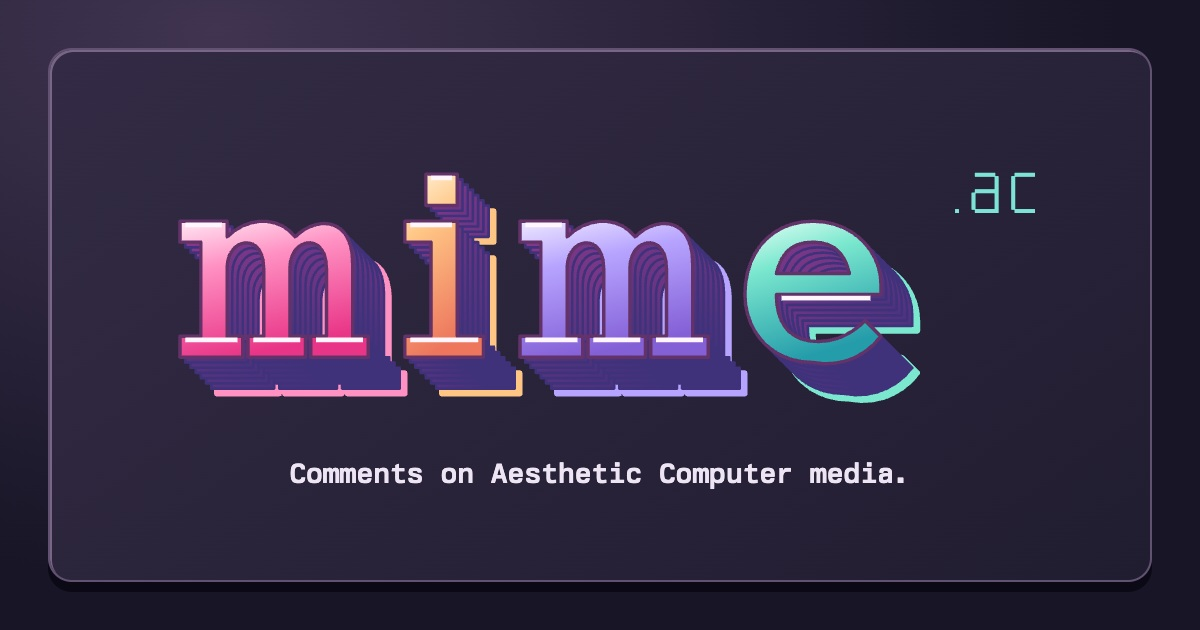
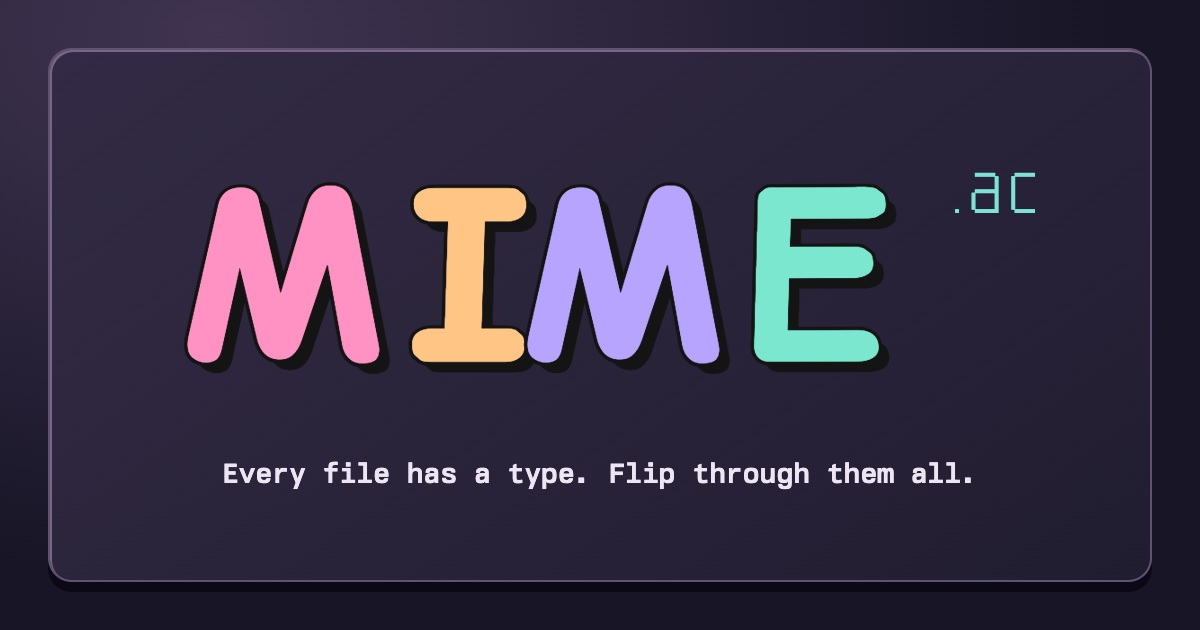
mime.ac: the share card says what the site is now
The 1200×630 card baked in "Comments on Aesthetic Computer media.", the
discussion-board tagline, and it is the hero on /mime-types/ and the
og:image everywhere. The generator now writes "Every file has a type. Flip
through them all." and both pages bump the image cache-buster so scrapers
refetch it. The favicons the script also rebuilds are left as committed.

Changed region(s): [[0.1233, 0.2714, 0.7708, 0.6635], [0.185, 0.7238, 0.8017, 0.7841]]

diff --git a/system/public/mime/mime-types/index.html b/system/public/mime/mime-types/index.html
@@ -16,14 +16,14 @@
 <meta property="og:title" content="What is a MIME type? Every file has one">
 <meta property="og:description" content="image/png, text/html, video/mp4: the labels that tell a computer what a file is. MIME.ac flips through them all like TV channels.">
 <meta property="og:url" content="https://mime.ac/mime-types/">
-<meta property="og:image" content="https://mime.ac/social/mime.jpg?v=1">
+<meta property="og:image" content="https://mime.ac/social/mime.jpg?v=2">
 <meta property="og:image:width" content="1200">
 <meta property="og:image:height" content="630">
 <meta property="og:image:alt" content="MIME in pink, peach, purple, and mint 3D letters, with a raised .ac.">
 <meta name="twitter:card" content="summary_large_image">
 <meta name="twitter:title" content="What is a MIME type? Every file has one">
 <meta name="twitter:description" content="image/png, text/html, video/mp4: the labels that tell a computer what a file is. MIME.ac flips through them all like TV channels.">
-<meta name="twitter:image" content="https://mime.ac/social/mime.jpg?v=1">
+<meta name="twitter:image" content="https://mime.ac/social/mime.jpg?v=2">
 <link rel="preconnect" href="https://aesthetic.computer">
 <link rel="stylesheet" href="https://aesthetic.computer/type/webfonts/berkeley-mono-variable.css">
 <link rel="stylesheet" href="https://fonts.googleapis.com/css2?family=Comic+Relief:wght@400;700&display=swap">
@@ -157,7 +157,7 @@
   <h1>Every file has a MIME type.</h1>
   <p class="tag">MIME.ac is a toy for browsing, making and flipping through them all, one work per screen, as if file types were TV channels.</p>
 
-  <a class="hero" href="/"><img src="/social/mime.jpg?v=1" width="1200" height="630"
+  <a class="hero" href="/"><img src="/social/mime.jpg?v=2" width="1200" height="630"
     alt="MIME in pink, peach, purple, and mint 3D letters, with a raised .ac."></a>
   <a class="open" href="/">Open MIME.ac</a>
   <p class="note">Free, in your browser. No account needed to flip.</p>

diff --git a/system/public/mime/index.html b/system/public/mime/index.html
@@ -31,8 +31,8 @@
   <meta property="og:title" content="MIME.ac — every file has a type. Flip through them all." />
   <meta property="og:description" content="A toy for browsing, making and flipping through files by MIME type, as if file types were TV channels." />
   <meta property="og:url" content="https://mime.ac/" />
-  <meta property="og:image" content="https://mime.ac/social/mime.jpg?v=1" />
-  <meta property="og:image:secure_url" content="https://mime.ac/social/mime.jpg?v=1" />
+  <meta property="og:image" content="https://mime.ac/social/mime.jpg?v=2" />
+  <meta property="og:image:secure_url" content="https://mime.ac/social/mime.jpg?v=2" />
   <meta property="og:image:type" content="image/jpeg" />
   <meta property="og:image:width" content="1200" />
   <meta property="og:image:height" content="630" />
@@ -40,7 +40,7 @@
   <meta name="twitter:card" content="summary_large_image" />
   <meta name="twitter:title" content="MIME.ac — every file has a type. Flip through them all." />
   <meta name="twitter:description" content="A toy for browsing, making and flipping through files by MIME type, as if file types were TV channels." />
-  <meta name="twitter:image" content="https://mime.ac/social/mime.jpg?v=1" />
+  <meta name="twitter:image" content="https://mime.ac/social/mime.jpg?v=2" />
   <meta name="twitter:image:alt" content="MIME in pink, peach, purple, and mint 3D letters, with a raised .ac." />
   <link rel="preconnect" href="https://aesthetic.computer" />
   <link rel="preconnect" href="https://oven.aesthetic.computer" />
